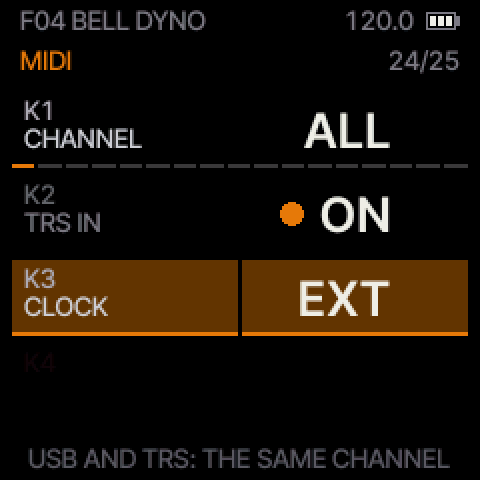
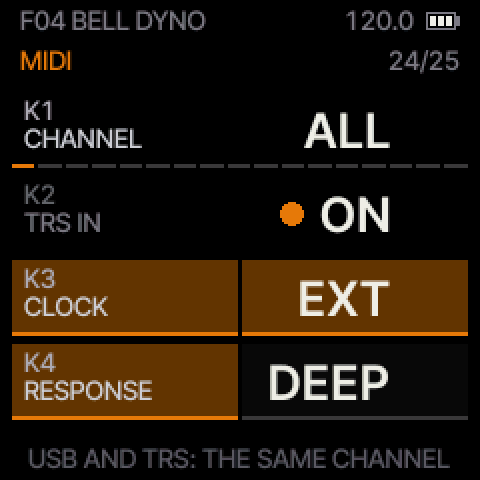
MANUAL: the MIDI page's RESPONSE card and CC 40; the screenshots redrawn; rhodes_tables.h's body hash as the generator writes it

Changed region(s): [[0.0, 0.7188, 0.9688, 0.875]]

diff --git a/firmware/gen/rhodes_tables.h b/firmware/gen/rhodes_tables.h
@@ -692,4 +692,4 @@ static const int32_t TUNE_T[101] = {-30567345,-29964610,-29361527,-28758095,-281
 static const uint32_t DECAY_K[128] = {262144,256527,251030,245651,240387,235236,230195,225263,220436,215712,211090,206567,202141,197809,193571,189423,185364,181392,177505,173701,169979,166337,162773,159285,155872,152532,149263,146065,142935,139872,136875,133942,131072,128263,125515,122825,120194,117618,115098,112631,110218,107856,105545,103283,101070,98905,96785,94711,92682,90696,88752,86851,84990,83169,81386,79642,77936,76266,74632,73032,71468,69936,68438,66971,65536,64132,62757,61413,60097,58809,57549,56316,55109,53928,52773,51642,50535,49452,48393,47356,46341,45348,44376,43425,42495,41584,40693,39821,38968,38133,37316,36516,35734,34968,34219,33486,32768,32066,31379,30706,30048,29405,28774,28158,27554,26964,26386,25821,25268,24726,24196,23678,23170,22674,22188,21713,21247,20792,20347,19911,19484,19066,18658,18258,17867,17484,17109,16743};
 static const uint16_t PEDAL_W[128] = {32768,32768,32768,32768,32768,32768,32768,32768,32768,32768,32768,32768,32768,32768,32768,32768,32768,32768,32768,32768,32768,32768,32768,32768,32768,32768,32768,32768,32768,32768,32768,32768,32768,32768,32768,32768,32768,32768,32768,32768,32768,32768,29491,28945,28399,27853,27307,26761,26214,25668,25122,24576,24030,23484,22938,22528,22119,21709,21300,20890,20480,20071,19661,19661,0,0,0,0,0,0,0,0,0,0,0,0,0,0,0,0,0,0,0,0,0,0,0,0,0,0,0,0,0,0,0,0,0,0,0,0,0,0,0,0,0,0,0,0,0,0,0,0,0,0,0,0,0,0,0,0,0,0,0,0,0,0,0,0};
 /* hammer bands (Hertz tip K, N/m^1.5): 30 duro 8.47e+04, 50 duro 1.93e+05, 70 duro 4.53e+05, 90 duro 1.78e+06, wood 2.56e+08 */
-/* sha256(body) = 3d28cbb5cd941e834a8a2753ada7a7864d42a4888b7aa5be7e0284d66c45e1a2 */
+/* sha256(body) = 816c0f38a9d4138efb33e25a85e96338a1274a6a9beaf95239f1473765e14c1b */

diff --git a/docs/MANUAL.md b/docs/MANUAL.md
@@ -289,7 +289,7 @@ controls: see [MARIMBA](#marimba).
 
 ### COMPRESSOR
 
-![COMPRESSOR](manual/img/comp.png?v=2a1cac33)
+![COMPRESSOR](manual/img/comp.png?v=f5766e60)
 
 | Knob | Card | What it does |
 | --- | --- | --- |
@@ -657,7 +657,7 @@ DRIVE, FILTER, DELAY and REVERB.
 
 ### SETUP
 
-![SETUP](manual/img/setup.png?v=e432acdf)
+![SETUP](manual/img/setup.png?v=a310bb0f)
 
 | Knob | Card | What it does |
 | --- | --- | --- |
@@ -679,13 +679,14 @@ report).
 
 ### MIDI
 
-![MIDI](manual/img/midi.png?v=789009e2)
+![MIDI](manual/img/midi.png?v=80a09ae6)
 
 | Knob | Card | What it does |
 | --- | --- | --- |
 | K1 | **CHANNEL** | **ALL** (the default: every channel is played) or **1–16**: only that channel is heard (notes, CCs and program changes; clock, Start and Stop always are), from USB-MIDI and from the TRS jack alike, and the FM-1 sends its notes on it (on ALL it sends on 1) |
 | K2 | **TRS IN** | **ON** / **OFF**: MIDI from the 3.5 mm TRS MIDI input (for a DAWless setup: a keyboard, a sequencer, a drum machine's clock) |
 | K3 | **CLOCK** | **INT**: its own tempo. **EXT** (the default): follows MIDI clock from USB or the TRS jack when it comes (the tempo and the beats: section 8), and a MIDI **Start** / **Continue** starts the sequencer, **Stop** stops it |
+| K4 | **RESPONSE** | How the electric piano answers velocity (MIDI notes and the FM-1's keys alike; taken at each new note, so a change never jumps a ringing one). **DEEP** (the default): the strike drives the tine harder through the pickup, so the tone opens up steadily from soft to hard. **EVEN**: the tone stays round and level up to a knee that rises with the register, then the bark comes in quickly; the bass's fundamental saturates. Both play at the same loudness at medium and hard velocities. VIBES and MARIMBA ignore it. Not part of a preset (CC 40) |
 
 Press **GLO** three times to come here (TEMPO, SETUP, MIDI). Everything MIDI does, it does the same from USB and from
 the TRS jack: notes, every CC in the table below, program changes, clock, start and stop.
@@ -1113,7 +1114,7 @@ MARIMBA ignore it.
 | 60 / 61 | SEQUENCER play (≥ 64) or stop (< 64) / BARS (1–16) | 62 / 63 | SEQUENCER QUANT (0–5) / recording (≥ 64) |
 | 43 / 44 | SEQUENCER CLEAR / UNDO (≥ 64) | 45 / 46 | SEQUENCER ERASE (≥ 64 on) / SWING (50–75) |
 | 110 | LEVEL (64 = 0 dB) | 111 | All effects off (≥ 64) / on |
-| 114 | USB VOL: knob (< 64) / fixed | | |
+| 114 | USB VOL: knob (< 64) / fixed | 40 | RESPONSE: 0–63 DEEP, 64–127 EVEN (the electric piano's velocity response) |
 
 **For developers and testing.** These CCs are for test tools, not for playing; [BUILD.md](BUILD.md#developer-midi-ccs) says
 what each one does.

diff --git a/README.md b/README.md
@@ -80,7 +80,7 @@ Schwung's module catalog, you can also install and update it from there. The ste
 
 **[The user manual](docs/MANUAL.md)**: every page, knob and button, the presets, the effects and the MIDI map.
 
-![The PERFORM, VOICE, PHASER and COMPRESSOR pages on the FM-1](docs/manual/img/overview.png?v=c6d97fae)
+![The PERFORM, VOICE, PHASER and COMPRESSOR pages on the FM-1](docs/manual/img/overview.png?v=cbacdd52)
 
 ## Other keyboards
 
